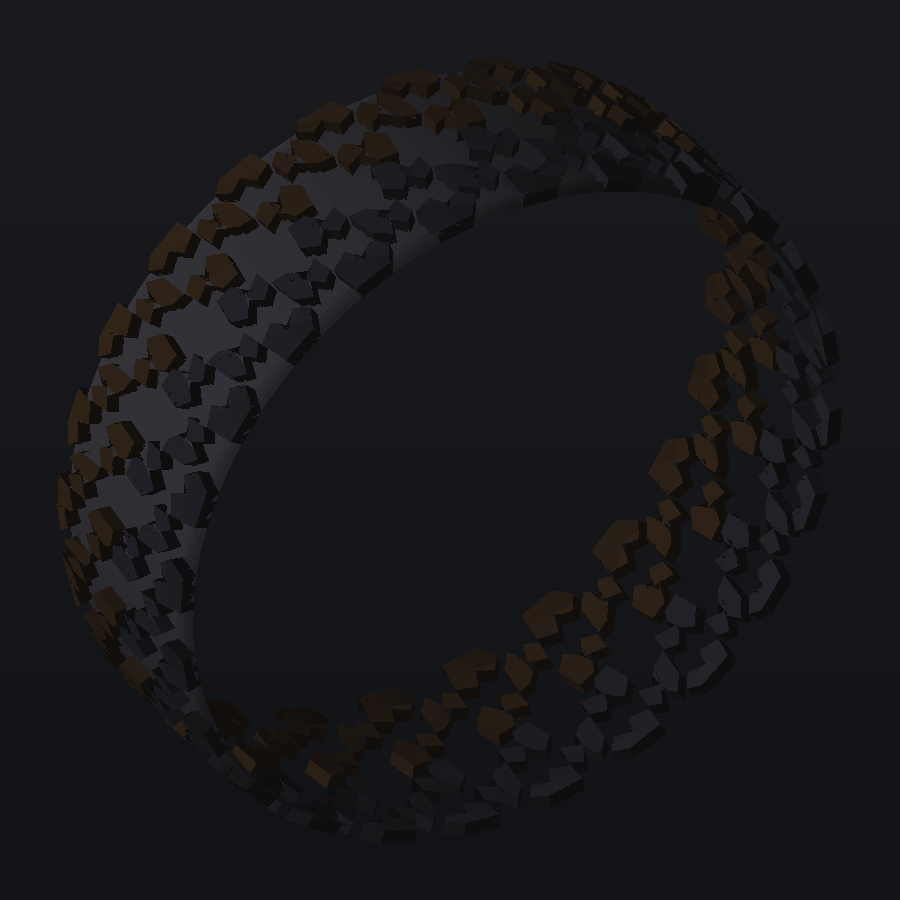
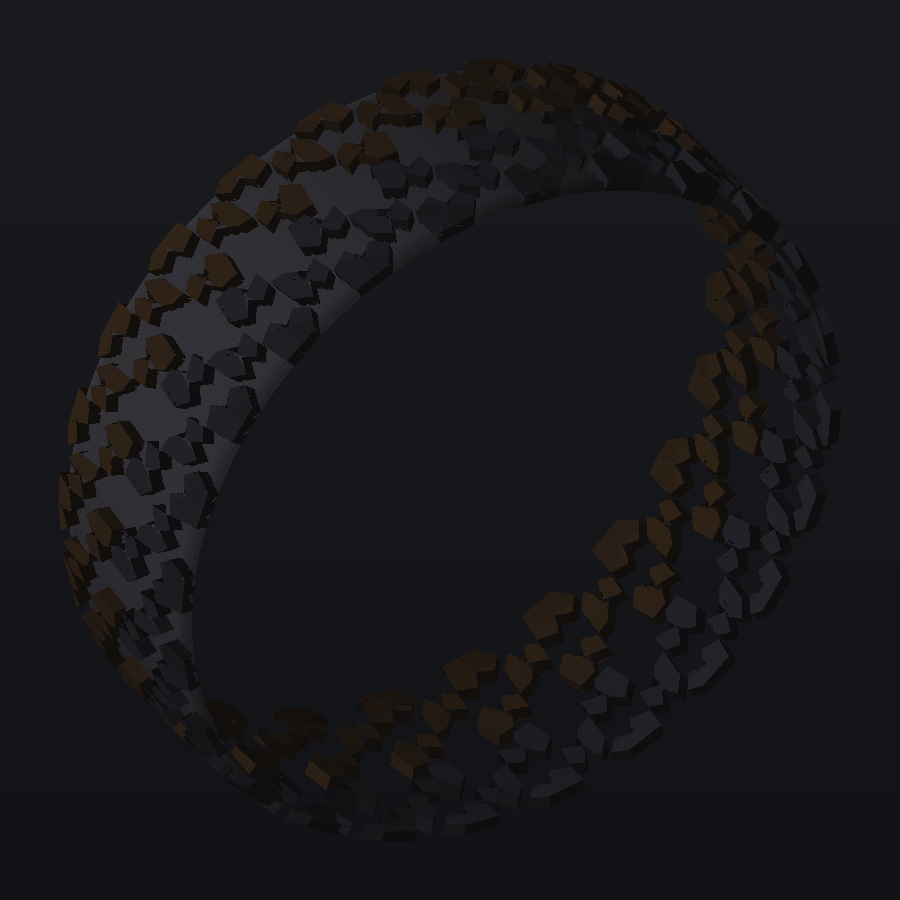
QuadTread: sculpted lug tops — per-vertex apex dips with conforming wall grids
Traced blocks can now carry an authored apex function (mm dip below the
running surface, evaluated in authored space so mirrored placements sculpt
the mirror image): AX.ramp / AX.wedge factories bound to the block's own
bbox. Full-depth pieces get sculpted top fans; sipe floors stay planar.
All chord midpoints remain 3-D lerps of ring ends, so sculpted and flat
pieces share coordinates exactly and edge loops stay conforming. Wall
emission: only the first ring follows the dip; every ring below stays a
shared absolute level — the dip is lint-capped at min(sipe floor)-0.7 mm
(0.45*depth for unsiped blocks) so level inclusion stays uniform.

Applied: clawTrace shoulder claw (2.8 mm outward shed ramp), armorTrace
shoulder (2.2 mm), helixTrace vane (1.8 mm directional wedge).

Audit lintTraced gains the apex cap check. 22 designs — 0 mesh defects,
0 lint warnings; gallery proofs re-rendered.

diff --git a/References/QuadTreadModelling.html b/References/QuadTreadModelling.html
@@ -399,11 +399,12 @@ const DESIGNS = {
   },
   helixTrace: {
     label: 'Helix S — point mirror', tag: 'traced · 180° rotational copy',
-    desc: 'Point-symmetric directional: one S-curved vane authored on the right; the second vane is the same outline rotated 180° about the pitch centre — a point mirror, not an axis mirror, so the pair reads as a spinning helix instead of a V.',
+    desc: 'Point-symmetric directional: one S-curved vane authored on the right; the second vane is the same outline rotated 180° about the pitch centre — a point mirror, not an axis mirror, so the pair reads as a spinning helix instead of a V. Vane tops carry a 1.8 mm directional wedge sculpted per vertex (still all quads).',
     set: { width: 225, aspect: 50, rim: 17, depth: 9.5, crown: 2.6, shoulderLen: 13, shoulderDrop: 4,
            pitches: 44, chevron: 0, gapScale: 1, stagger: 1, sipeW: 1.4, sipeDepthF: 0.6 },
     blocks: [
-      { name: 'vane', sipes: [{ ang: 40, off: -8, depthF: 0.6 }, { ang: 40, off: 8, depthF: 0.6 }],
+      { name: 'vane', apex: { ramp: [58, 1.8] },              // directional wedge along the vane sweep
+        sipes: [{ ang: 40, off: -8, depthF: 0.6 }, { ang: 40, off: 8, depthF: 0.6 }],
         shape: SH.poly([[.03, .14], [.24, .18], [.32, .36], [.18, .50], [.36, .58], [.42, .78], [.34, .90], [.12, .84], [.06, .66], [.18, .52], [.03, .42]]) },
       { name: 'shoulder', sipes: [{ ang: 6, depthF: 0.55 }],
         shape: SH.box(.72, .18, 1.0, .52, 3.5) },
@@ -463,14 +464,15 @@ const DESIGNS = {
   },
   armorTrace: {
     label: 'Armor Z — polygon trace', tag: 'reference · point-mirrored half',
-    desc: 'The marked-up mud-terrain reference traced literally as four polygonal lugs: red shoulder, cream wing, orange hook and green centre Z. The opposite half is the same outlines rotated 180° about (0, ¾) — a point mirror that also lands the copy half a pitch along.',
+    desc: 'The marked-up mud-terrain reference traced literally as four polygonal lugs: red shoulder, cream wing, orange hook and green centre Z. The opposite half is the same outlines rotated 180° about (0, ¾) — a point mirror that also lands the copy half a pitch along. Shoulder lugs get a 2.2 mm outward shed ramp sculpted per vertex.',
     set: { width: 285, aspect: 70, rim: 17, depth: 15, crown: 2, shoulderLen: 18, shoulderDrop: 6,
            pitches: 26, chevron: 0, gapScale: 1, stagger: 1, sipeW: 1.5, sipeDepthF: .55 },
     blocks: [
       { name: 'centre Z', shape: SH.poly([[.02, .10], [.27, .02], [.34, .18], [.24, .34], [.345, .415], [.26, .585], [.08, .62], [.14, .45], [.01, .34]]) },
       { name: 'inner hook', shape: SH.poly([[.30, .605], [.55, .60], [.62, .74], [.49, .81], [.62, .925], [.575, 1.045], [.35, 1.09], [.42, .93], [.305, .79]]) },
       { name: 'outer wing', shape: SH.poly([[.575, .075], [.78, .08], [.91, .24], [.78, .31], [.885, .45], [.775, .615], [.61, .57], [.69, .42], [.585, .32]]) },
-      { name: 'shoulder', shape: SH.poly([[.825, .575], [1, .58], [1, 1.075], [.815, 1.115], [.74, .985], [.79, .84], [.715, .67]]) },
+      { name: 'shoulder', apex: { ramp: [90, 2.2] },          // outward shed ramp on the shoulder lugs
+        shape: SH.poly([[.825, .575], [1, .58], [1, 1.075], [.815, 1.115], [.74, .985], [.79, .84], [.715, .67]]) },
     ],
     sym: {
       even: [
@@ -501,13 +503,14 @@ const DESIGNS = {
   },
   clawTrace: {
     label: 'Claw V — polygon trace', tag: 'reference · long directional hooks',
-    desc: 'Long claw-shaped lugs traced from the directional M/T reference. The three source pieces form one half; the 180° point mirror builds the opposite half half a pitch along.',
+    desc: 'Long claw-shaped lugs traced from the directional M/T reference. The three source pieces form one half; the 180° point mirror builds the opposite half half a pitch along. Shoulder claws shed outward: a 2.8 mm ramp sculpted per vertex into the lug top.',
     set: { width: 295, aspect: 70, rim: 17, depth: 16, crown: 2, shoulderLen: 20, shoulderDrop: 7,
            pitches: 24, chevron: 0, gapScale: 1, stagger: 1, sipeW: 1.6, sipeDepthF: .55 },
     blocks: [
       { name: 'centre claw', shape: SH.poly([[.01, .08], [.28, .02], [.42, .18], [.29, .31], [.42, .42], [.335, .565], [.15, .55], [.23, .39], [.03, .28]]) },
       { name: 'mid claw', shape: SH.poly([[.34, .585], [.66, .63], [.80, .78], [.64, .87], [.775, .965], [.685, 1.085], [.475, 1.05], [.54, .92], [.375, .74]]) },
-      { name: 'shoulder claw', shape: SH.poly([[.725, .10], [1, .14], [1, .55], [.85, .69], [.72, .56], [.80, .40], [.645, .305]]) },
+      { name: 'shoulder claw', apex: { ramp: [90, 2.8] },     // outward mud-shed ramp sculpted into the top
+        shape: SH.poly([[.725, .10], [1, .14], [1, .55], [.85, .69], [.72, .56], [.80, .40], [.645, .305]]) },
     ],
     sym: {
       even: [
@@ -932,6 +935,41 @@ function makeBuilder() {
 
 const PENETRATION = 0.35;   // mm: traced outline walls + bottom faces reach past the groove floor
 
+// Apex helpers: authored closed-form dip functions (mm below the running surface) for sculpted lug tops.
+// A design sets `apex` on a block; full-depth pieces evaluate it per vertex (sipe floors stay planar).
+// Rule of use (enforced by the audit lint): the dip must stay shallower than the block's shallowest
+// sipe floor minus a margin, so walls keep a uniform level grid and every column stays conforming.
+const AX = {
+  ramp(deg, dip, box) {          // planar shed ramp rising toward direction deg (0° = along +v)
+    const th = deg * π / 180, dx = Math.sin(th), dy = Math.cos(th);
+    return (mx, my) => {
+      const c = box.c, hu = box.hxu * Math.abs(dx), hv = box.hyu * Math.abs(dy), t0 = Math.max(1e-6, hu + hv);
+      const s = ((mx - c[0]) * dx + (my - c[1]) * dy) / t0 * .5 + .5;
+      return dip * Math.min(1, Math.max(0, s));
+    };
+  },
+  wedge(deg, dip, box) {         // two-sided ridge: 0 on the centreline, dip toward both flanks
+    const th = deg * π / 180, dx = Math.sin(th), dy = Math.cos(th);
+    return (mx, my) => {
+      const c = box.c, hu = box.hxu * Math.abs(dy), hv = box.hyu * Math.abs(dx), t0 = Math.max(1e-6, hu + hv);
+      return dip * Math.min(1, Math.abs((mx - c[0]) * -dy + (my - c[1]) * dx) / t0);
+    };
+  },
+  boxOf(sh) {                    // resolved authored bbox of a block shape (unit uv)
+    const p = resolveShape(sh, D.halfW, D.P);
+    const xs = p.map(q => q[0] * D.halfW), ys = p.map(q => q[1] * D.P);
+    const x0 = Math.min(...xs), x1 = Math.max(...xs), y0 = Math.min(...ys), y1 = Math.max(...ys);
+    return { c: [(x0 + x1) / 2, (y0 + y1) / 2], hxu: (x1 - x0) / 2, hyu: (y1 - y0) / 2 };
+  },
+  bind(spec, sh) {               // block.apex = AX.bind({ ramp: [deg, dip] }, shape) → fn(mx,my)→mm
+    if (!spec) return null;
+    if (typeof spec === 'function') return spec;
+    const b = AX.boxOf(sh), fns = [];
+    for (const [k, args] of Object.entries(spec)) fns.push(AX[k](...args, b));
+    return fns.length === 1 ? fns[0] : ((mx, my) => fns.reduce((a, f) => a + f(mx, my), 0));
+  },
+};
+
 function emitFloorBand(B, tiles, flat) {
   const { cols } = buildColumns();
   const rows = buildRows();
@@ -952,49 +990,61 @@ function emitFloorBand(B, tiles, flat) {
   }
 }
 
-function emitTracedPiece(B, poly, topDepth, flat, col, depthLevels) {
+function emitTracedPiece(B, poly, topDepth, flat, col, depthLevels, apexF) {
   const n = poly.length;
   const botDepth = T.depth + PENETRATION;
+  // Per-vertex top depths: sculpted (apex) pieces vary across the top; the dip is evaluated in
+  // AUTHORED space (vertex `.s`), so mirrored placements sculpt the mirror image consistently.
+  // ALL chord midpoints are 3-D lerps of the ring ends — exactly like the constant-depth path —
+  // so fans and walls stay coincident edge-on-edge.
+  const src = poly.map(v => v.s || v.p);
+  const topOf = s => topDepth + (apexF ? apexF(s[0] * D.halfW, s[1] * D.P) : 0);
+  const dTop = src.map(topOf);
   const mm = poly.map(v => ({ x: v.p[0] * D.halfW, y: v.p[1] * D.P }));
-  const top = mm.map(q => pos(q.x, q.y, topDepth, flat, V()));
-  const bot = mm.map(q => pos(q.x, q.y, botDepth, flat, V()));
-  const ct = top.reduce((acc, q) => acc.add(q), new THREE.Vector3()).multiplyScalar(1 / n);
-  const cb = bot.reduce((acc, q) => acc.add(q), new THREE.Vector3()).multiplyScalar(1 / n);
   const lerp3 = (a, b, t = .5) => a.clone().lerp(b, t);
+  const top = dTop.map((d, i) => pos(mm[i].x, mm[i].y, d, flat, V()));
+  const bot = mm.map(q => pos(q.x, q.y, botDepth, flat, V()));
+  const cS = src.reduce((a, s) => [a[0] + s[0] / n, a[1] + s[1] / n], [0, 0]);
+  const cq = { x: mm.reduce((a, q) => a + q.x / n, 0), y: mm.reduce((a, q) => a + q.y / n, 0) };
+  const ct = pos(cq.x, cq.y, topOf(cS), flat, V());
+  const cb = bot.reduce((acc, q) => acc.add(q), new THREE.Vector3()).multiplyScalar(1 / n);
   for (let i = 0; i < n; i++) {
     const pr = (i - 1 + n) % n, nx = (i + 1) % n;
-    const up = surfNormal(mm[i].x, mm[i].y, flat, V());
-    B.quad('tile', [top[i], lerp3(top[i], top[nx]), ct, lerp3(top[pr], top[i])], [up, up, up, up], up, col);
+    const qN = lerp3(top[i], top[nx]), qP = lerp3(top[pr], top[i]);
+    let up;
+    if (apexF) {          // face normal from the sculpted quad's own geometry (up-checked)
+      up = new THREE.Vector3().subVectors(qN, qP).cross(new THREE.Vector3().subVectors(top[i], ct));
+      up.normalize();
+      if (up.dot(surfNormal(mm[i].x, mm[i].y, flat, V())) < 0) up.negate();
+    } else up = surfNormal(mm[i].x, mm[i].y, flat, V());
+    B.quad('tile', [top[i], qN, ct, qP], [up, up, up, up], up, col);
     const dn = up.clone().negate();
-    B.quad('tile', [bot[i], lerp3(bot[pr], bot[i]), cb, lerp3(bot[i], bot[nx])], [dn, dn, dn, dn], dn, col);
+    B.quad('tile', [bot[i], lerp3(bot[i], bot[pr]), cb, lerp3(bot[i], bot[nx])], [dn, dn, dn, dn], dn, col);
   }
   // Walls. Every edge is emitted per depth segment (split at every sipe depth of the block, the same
   // levels the sipe walls and strip walls terminate at), and each segment is split at the 3-D CHORD
-  // midpoints of its end rings — exactly the midpoints the top/bottom fans use. So wall edge loops are
-  // conforming against the fans horizontally and against each other vertically, at sipe crossings too.
+  // midpoints of its end rings — exactly the midpoints the fans use. Sculpted tops only tilt the first
+  // row: the first ring follows the per-vertex dip, every ring below stays a shared absolute level, so
+  // adjacent walls keep identical edge stacks as long as the dip clears the shallowest level (linted).
   for (let i = 0; i < n; i++) {
     const j = (i + 1) % n, tag = poly[i].tag;
     let dT;
     if (tag.t === 'side') continue;                            // sipe strip flank: meets the sipe wall's foot
     else if (tag.t === 'sipe') dT = tag.depth;
     else dT = botDepth;
-    if (dT < topDepth + 1e-6) continue;   // wall below its own floor: hidden inside the solid, skip it
+    const lo = Math.max(dTop[i], dTop[j]);
+    if (dT < lo + 1e-6) continue;   // wall below its own floor: hidden inside the solid, skip it
     const midU = (poly[i].p[0] + poly[j].p[0]) / 2, midV = (poly[i].p[1] + poly[j].p[1]) / 2;
     const mx = midU * D.halfW, my = midV * D.P;
     let ex = new THREE.Vector3(top[j].z - top[i].z, 0, top[i].x - top[j].x);
     if (!flat) ex = surfNormal(mx, my, false, V()).cross(tangent(mx, my, false, V()));
-    const segs = [];
-    let p0 = topDepth;
-    for (const c of depthLevels) if (c > p0 + 1e-6 && c < dT - 1e-6) { segs.push([p0, c]); p0 = c; }
-    segs.push([p0, dT]);
-    let a1 = top[i], a2 = top[j], am = lerp3(a1, a2);
-    for (const [dA, dB] of segs) {
-      const b1 = dB === botDepth ? bot[i] : pos(mm[i].x, mm[i].y, dB, flat, V());
-      const b2 = dB === botDepth ? bot[j] : pos(mm[j].x, mm[j].y, dB, flat, V());
-      const bm = lerp3(b1, b2);
-      B.quad('tile', [a1, am, bm, b1], [ex, ex, ex, ex], ex, col);
-      B.quad('tile', [am, a2, b2, bm], [ex, ex, ex, ex], ex, col);
-      a1 = b1; a2 = b2; am = bm;
+    const lvls = depthLevels.filter(c => c > lo + 1e-6 && c < dT - 1e-6);
+    const ringI = [top[i], ...lvls.map(L => pos(mm[i].x, mm[i].y, L, flat, V())), dT === botDepth ? bot[i] : pos(mm[i].x, mm[i].y, dT, flat, V())];
+    const ringJ = [top[j], ...lvls.map(L => pos(mm[j].x, mm[j].y, L, flat, V())), dT === botDepth ? bot[j] : pos(mm[j].x, mm[j].y, dT, flat, V())];
+    const ringM = ringI.map((p, k) => lerp3(p, ringJ[k]));
+    for (let r = 0; r < ringI.length - 1; r++) {
+      B.quad('tile', [ringI[r], ringM[r], ringM[r + 1], ringI[r + 1]], [ex, ex, ex, ex], ex, col);
+      B.quad('tile', [ringM[r], ringJ[r], ringJ[r + 1], ringM[r + 1]], [ex, ex, ex, ex], ex, col);
     }
   }
 }
@@ -1017,7 +1067,7 @@ function buildTracedTread(opts = {}) {
     const parts = splitSipes(resolveShape(b.shape, D.halfW, D.P), b.sipes);
     const levels = [...new Set(parts.flatMap(pt => pt.poly.map(v => v.tag.t === 'sipe' ? v.tag.depth : NaN)).filter(Number.isFinite))]
                    .sort((a, b) => a - b);
-    return { name: b.name, parts, levels };
+    return { name: b.name, parts, levels, dipF: AX.bind(b.apex, b.shape) };
   });
   for (let t = 0; t < tiles; t++) {
     const places = placements(dsg, t);
@@ -1027,9 +1077,10 @@ function buildTracedTread(opts = {}) {
         for (const part of blk.parts) {
           const poly = part.poly.map(v => {
             const q = sxAp(pl.M, v.p);
-            return { p: [q[0], q[1] + t], tag: v.tag };
+            return { p: [q[0], q[1] + t], s: v.p, tag: v.tag };
           });
-          emitTracedPiece(B, poly, part.topDepth, flat, col, blk.levels);
+          const dip = part.topDepth === 0 ? blk.dipF : null;   // sculpt running surface only; sipe floors stay planar
+          emitTracedPiece(B, poly, part.topDepth, flat, col, blk.levels, dip);
         }
       }
     }

diff --git a/Exhibits/Gallery/Editor/QuadTread/README.md b/Exhibits/Gallery/Editor/QuadTread/README.md
@@ -67,3 +67,11 @@ then re-renders the PNGs into this folder with a small software z-buffer
    polygon vertex produces slivers and dangling fan edges — shift the whole
    family with `off` until it cuts through the thick part of the lug
    (swept numerically: ±8 mm fan on the helix vane is watertight).
+4. **Sculpted lug tops (`apex`) must clear the shallowest sipe floor.** Blocks
+   may carry an authored apex function (per-vertex mm dip below the running
+   surface — `AX.ramp` / `AX.wedge`; claw shoulders run a 2.8 mm shed ramp,
+   armor shoulders 2.2 mm, helix vanes a 1.8 mm directional wedge). The dip is
+   lint-capped at `min(sipe floor) − 0.7 mm` / `0.45 × depth` so wall level
+   grids stay uniform and every column remains conforming. Sipe floors always
+   stay planar; chord midpoints stay 3-D lerps, so sculpted and flat pieces
+   share coordinates exactly.
